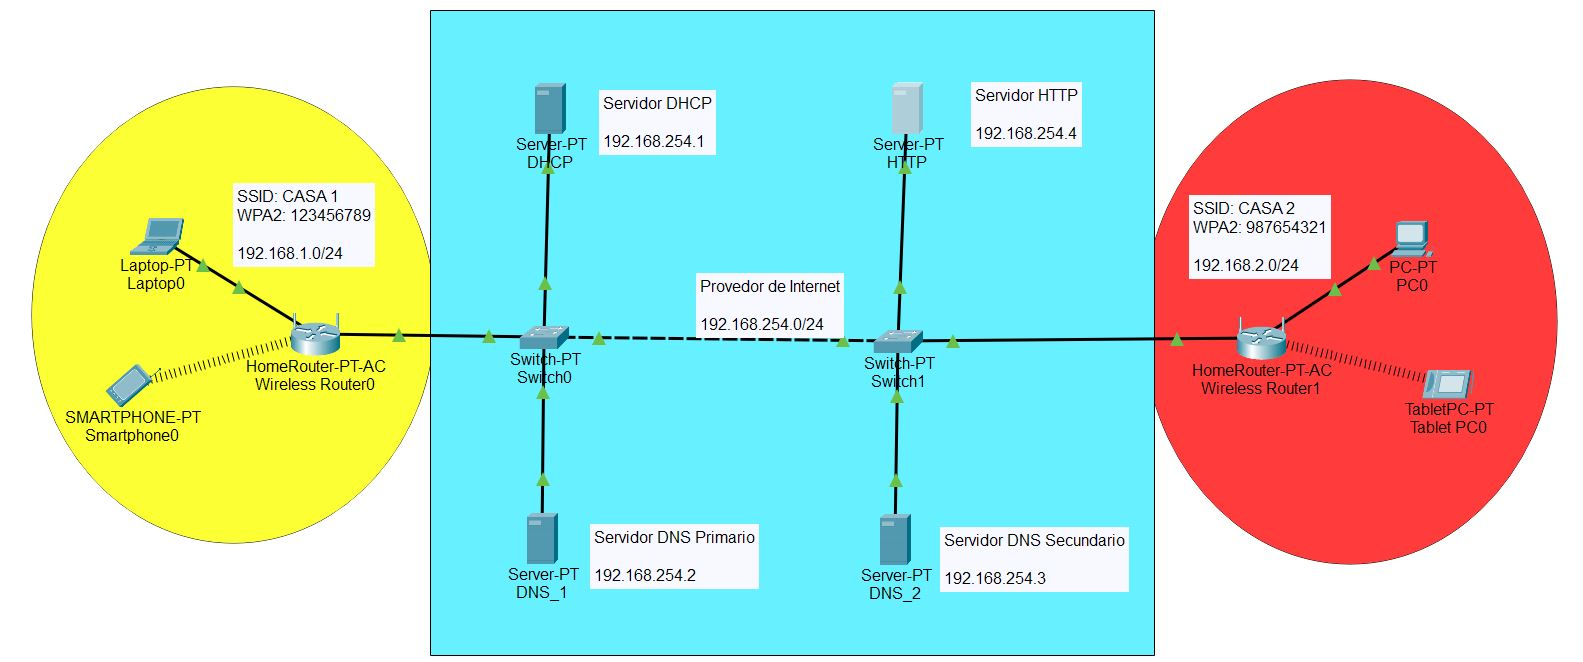
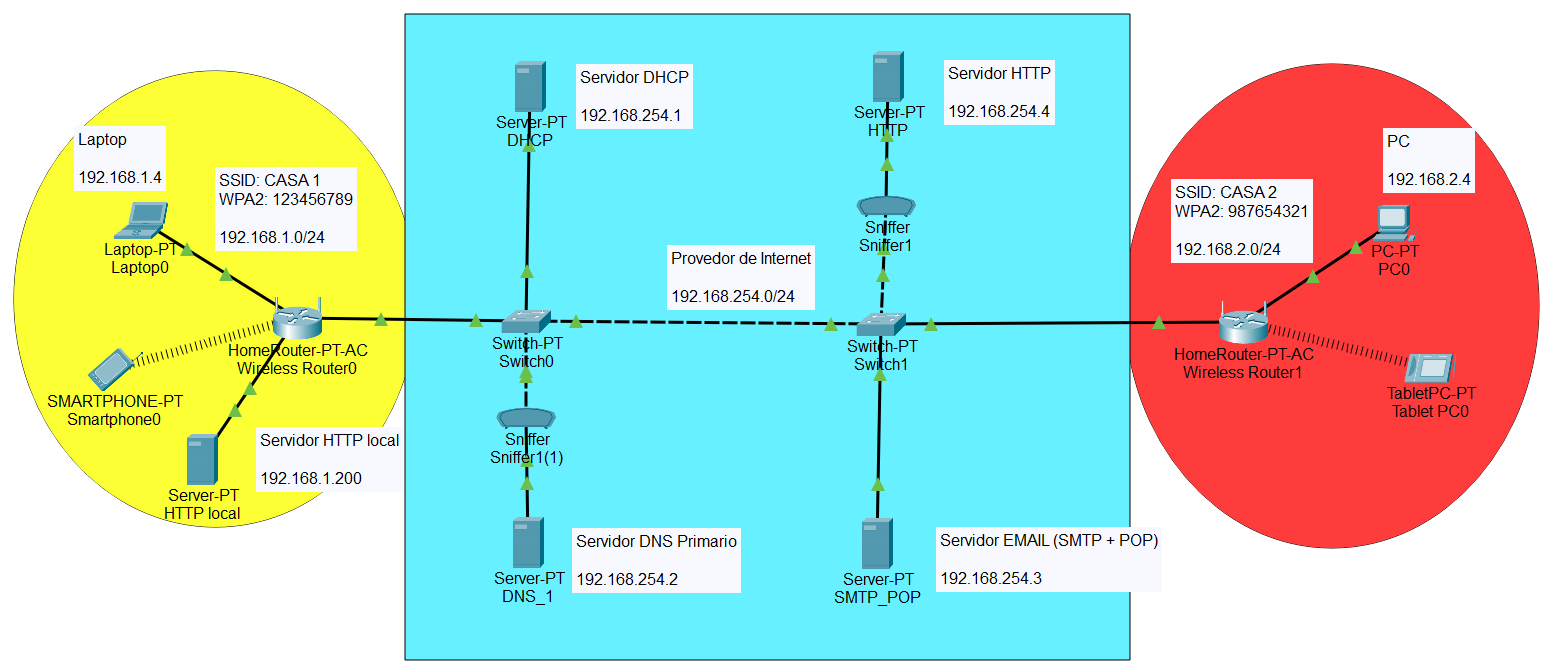
projeto semestral v2

Changed region(s): [[0.0, 0.0, 1.0, 0.997], [0.3107, 0.7855, 0.4971, 0.9063], [0.932, 0.6949, 0.9631, 0.7251]]

diff --git a/redes/PROJETO_01/README.md b/redes/PROJETO_01/README.md
@@ -9,17 +9,24 @@
 
 **Objetivos**:
 - Permitir a comunicação entre dispositivos de redes distintas
-  - Todos os dispositivos devem responder a pacotes ICMP enviados por quaisquer outros dispositivos finais
+  - Todos os dispositivos devem responder a pacotes ICMP enviados por quaisquer outros dispositivos finais (dentro da rede atual e dentro da rede do provedor)
   - Configurar parâmetros das redes LAN e WAN
   - Instalar e configurar enlaces e parâmetros wireless e cabeados
-- Todos os dispositivos devem ser capazes de acessar os servidores DHCP, DNS e HTTP
-- Configurar serviço HTTP
+- Todos os dispositivos devem ser capazes de acessar os servidores DHCP, DNS, HTTP e de EMAIL (SMTP + POP3) do provedor
+- Somente o servidor HTTP da rede amarela deve estar acessível para dispositivos finais externos das demais (rede azul e vermelha). Os demais dispositivos da rede amarela nao devem estar acessíveis para as demais redes.
+- Os dispositivos da rede vermelha nao devem estar acessíveis para os dispositivos da rede amarela. 
+- Configurar serviços HTTP
   - Somente o servidor HTTP deve fornecer este serviço
 - Configurar serviço DHCP nas redes LAN e WAN
 - Configurar serviço DNS nas redes LAN e WAN
-  - **Nos servidores DNS primário e secundário do provedor de internet:**
-    - Criar registros DNS do tipo A e CNAME que apontem para o servidor HTTP
-    - Criar registros DNS do tipo NS que apontem para os servidores DNS
+  - Criar registros DNS do tipo A e CNAME que apontem para o servidor HTTP
+  - Criar registros DNS do tipo NS que apontem para o servidor DNS
+- Configurar serviços de EMAIL
+  - Criar e configurar servidor POP3 e SMTP
+  - Criar e configurar usuários (emails) no servidor
+- Vocês devem usar pacotes ICMP (comando PING ou mensagens simuladas do Cisco Packet Tracer), e os sniffers da rede para identificar e corrigir falhas de conexão e de configuração das redes
+
+**Lembrete**: Para testar o DNS, você deve verificar se o acesso ao IP do servidor funciona e se esse acesso pelo nome do servidor também funciona. Se o acesso via IP funcionar porém via nome nao funcionar, isso indica falha de configuração no DNS.
 
 **Sumário**
 - [Projeto - Interconexão de redes locais com Packet Tracer](#projeto---interconexão-de-redes-locais-com-packet-tracer)
@@ -72,8 +79,9 @@ Segue a descrição das redes LAN domésticas e WAN (provedor de serviço).
 - **Topologia**: Estrela
 - **Equipamentos:**
   - 01 Roteador SOHO (Small-Office / Home-Office)  
+  - 01 Servidor HTTP local
   - Pelo menos 01 dispositivo wireless    
-  - Pelo menos 01 dispositivo cabeado 
+  - Pelo menos 01 dispositivo cabeado (Laptop)
 - **Enlaces:**
   - Enlaces wireless (802.11n ou 802.11ac)    
   - Enlaces cabeados (Fast Ethernet ou Gigabit)
@@ -86,6 +94,8 @@ Segue a descrição das redes LAN domésticas e WAN (provedor de serviço).
   - **Rede**: 192.168.1.0/24
   - **Gateway / DHCP**: 192.168.1.1
   - **DNS**: 192.168.254.2
+  - **IP do Laptop**: 192.168.1.4 (reservado no servidor DHCP)
+  - **IP do Servidor HTTP local**: 192.168.1.200 (configuração de IP estática no servidor)
 - **Configurações Wireless 2.4 / 5 GHz**: 
   - **Segurança:** WPA2-PSK (AES)
   - **SSID**: CASA 1
@@ -97,7 +107,7 @@ Segue a descrição das redes LAN domésticas e WAN (provedor de serviço).
 - **Equipamentos:**
   - 01 Roteador SOHO (Small-Office / Home-Office)  
   - Pelo menos 01 dispositivo wireless    
-  - Pelo menos 01 dispositivo cabeado 
+  - Pelo menos 01 dispositivo cabeado (PC)
 - **Enlaces:**
   - Enlaces wireless (802.11n ou 802.11ac)    
   - Enlaces cabeados (Fast Ethernet ou Gigabit)
@@ -110,6 +120,7 @@ Segue a descrição das redes LAN domésticas e WAN (provedor de serviço).
   - **Rede**: 192.168.2.0/24
   - **Gateway / DHCP**: 192.168.2.1
   - **DNS**: 192.168.254.2
+  - **IP do PC**: 192.168.2.4 (reservado no servidor DHCP)
 - **Configurações Wireless 2.4 / 5 GHz**: 
   - **Segurança:** WPA2-PSK (AES)
   - **SSID**: CASA 2
@@ -119,9 +130,10 @@ Segue a descrição das redes LAN domésticas e WAN (provedor de serviço).
 
 - **Equipamentos:**
   - 02 Switches (de rack)  
-  - 02 Servidores DNS (primário e secundário)
+  - 01 Servidor DNS (primário)
   - 01 Servidor DHCP
   - 01 Servidor HTTP
+  - 01 Servidor EMAIL (POP3 + SMTP)
 - **Enlaces:**
   - Enlaces cabeados (Fast Ethernet ou Gigabit)
 - **Cabeamento (para enlaces cabeados):** 
@@ -130,25 +142,17 @@ Segue a descrição das redes LAN domésticas e WAN (provedor de serviço).
 - **Configurações da LAN:** 
   - **Rede**: 192.168.254.0/24
   - **Gateway / DHCP**: 192.168.254.1
-  - **DNS**: 
-    - 192.168.254.2 (primário)
-    - 192.168.254.3 (secundário)
+  - **DNS**: 192.168.254.2 (primário)
+  - **EMAIL (POP3 + SMTP)**: 192.168.254.3
   - **HTTP**: 192.168.254.4
+- **Configurações de DNS:** 
+  - **Nome do domínio DNS**: ufba.br
+  - **Nome do servidor DNS**: ns1.ufba.br
+  - **Nome do servidor EMAIL (POP e SMTP)**: mx.ufba.br
+  - **Nome do servidor HTTP**: ufba.br
+  - **Alias para o servidor HTTP**: portal.ufba.br 
 
-<figure>
-  
-  **Exemplo de Configuração de DNS:**
-  
-  | Nome        | Tipo  | Valor         |
-  | ----------- | ----- | ------------- |
-  | ns1.ufba.br | A     | 192.168.254.2 |
-  | ns2.ufba.br | A     | 192.168.254.3 |
-  | ufba.br     | A     | 192.168.254.4 |
-  | ufba.br     | NS    | ns1.ufba.br   |
-  | ufba.br     | NS    | ns2.ufba.br   |
-  | cisco.srv   | CNAME | ufba.br       |
-
-</figure>
+**DICA**: Para configurar o DNS, estudem os tipos de registro (A, CNAME, e NS). O Cisco Packet Tracer nao possui o registro do tipo MX, porém isso nao afeta o funcionamento dos serviços no simulador.
 
 ## Instruções
 
@@ -157,10 +161,11 @@ Segue a descrição das redes LAN domésticas e WAN (provedor de serviço).
 3) Coloque os dispositivos e equipamentos de rede
 4) Conecte-os usando os enlaces apropriados
 5) Configure as redes e serviços
-6) Teste a configuração IP, enlaces e conexões de redes usando pacotes ICMP
+6) Teste a configuração IP, enlaces e conexões de redes usando pacotes ICMP e os sniffers da rede
 7) Teste os serviços DHCP (adicione dispositivos e verifique se eles se configuram automaticamente na rede)
 8) Teste o serviço DNS (faça um ping para o domínio `ufba.br` e `cisco.srv`)
-9) Teste o serviço HTTP (altere o arquivo ``index.html`` e verifique se as alterações visualizadas em outros dispositivos de rede)
+9) Teste o serviço HTTP do provedor (altere o arquivo ``index.html`` e verifique se as alterações visualizadas em outros dispositivos de rede)
+   1)  Faça o mesmo teste para o serviço HTTP local da rede amarela (acesso pelos dispositivos da rede amarela e acesso por dispositivos externos)
 
 ## Entregáveis
 
